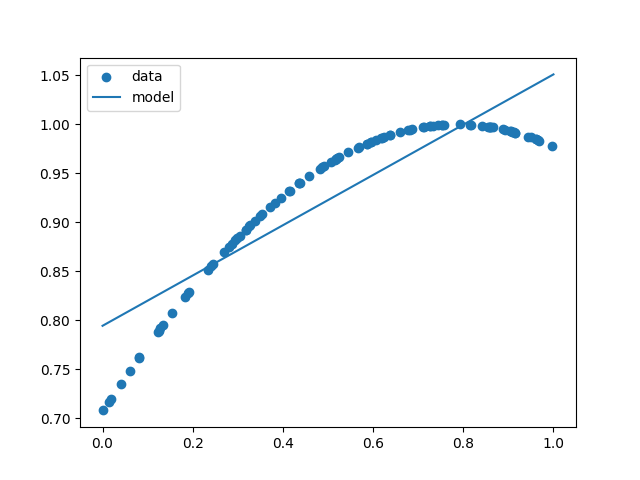
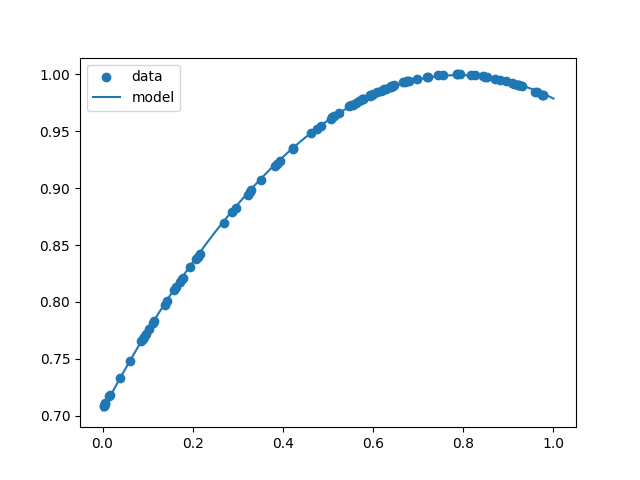
added a new improved model

diff --git a/fit.py b/fit.py
@@ -1,15 +1,20 @@
 import numpy as np
 import matplotlib.pyplot as plt
 from sklearn.linear_model import LinearRegression
+from sklearn.preprocessing import PolynomialFeatures
 
 x = np.random.uniform(high=1, size=100).reshape(-1,1)
 y = np.sin(x+.25 * np.pi).reshape(-1)
 
+poly = PolynomialFeatures(degree = 2 )
+x_poly = poly.fit_transform(x)
+
 model = LinearRegression()
-model.fit(x, y)
+model.fit(x_poly, y)
 
 x_pred = np.linspace(0,1, 100).reshape(-1,1)
-y_pred = model.predict(x_pred)
+x_poly_pred = poly.transform(x_pred)
+y_pred = model.predict(x_poly_pred)
 
 plt.scatter(x,y, label='data')
 plt.plot(x_pred, y_pred,  label="model")
